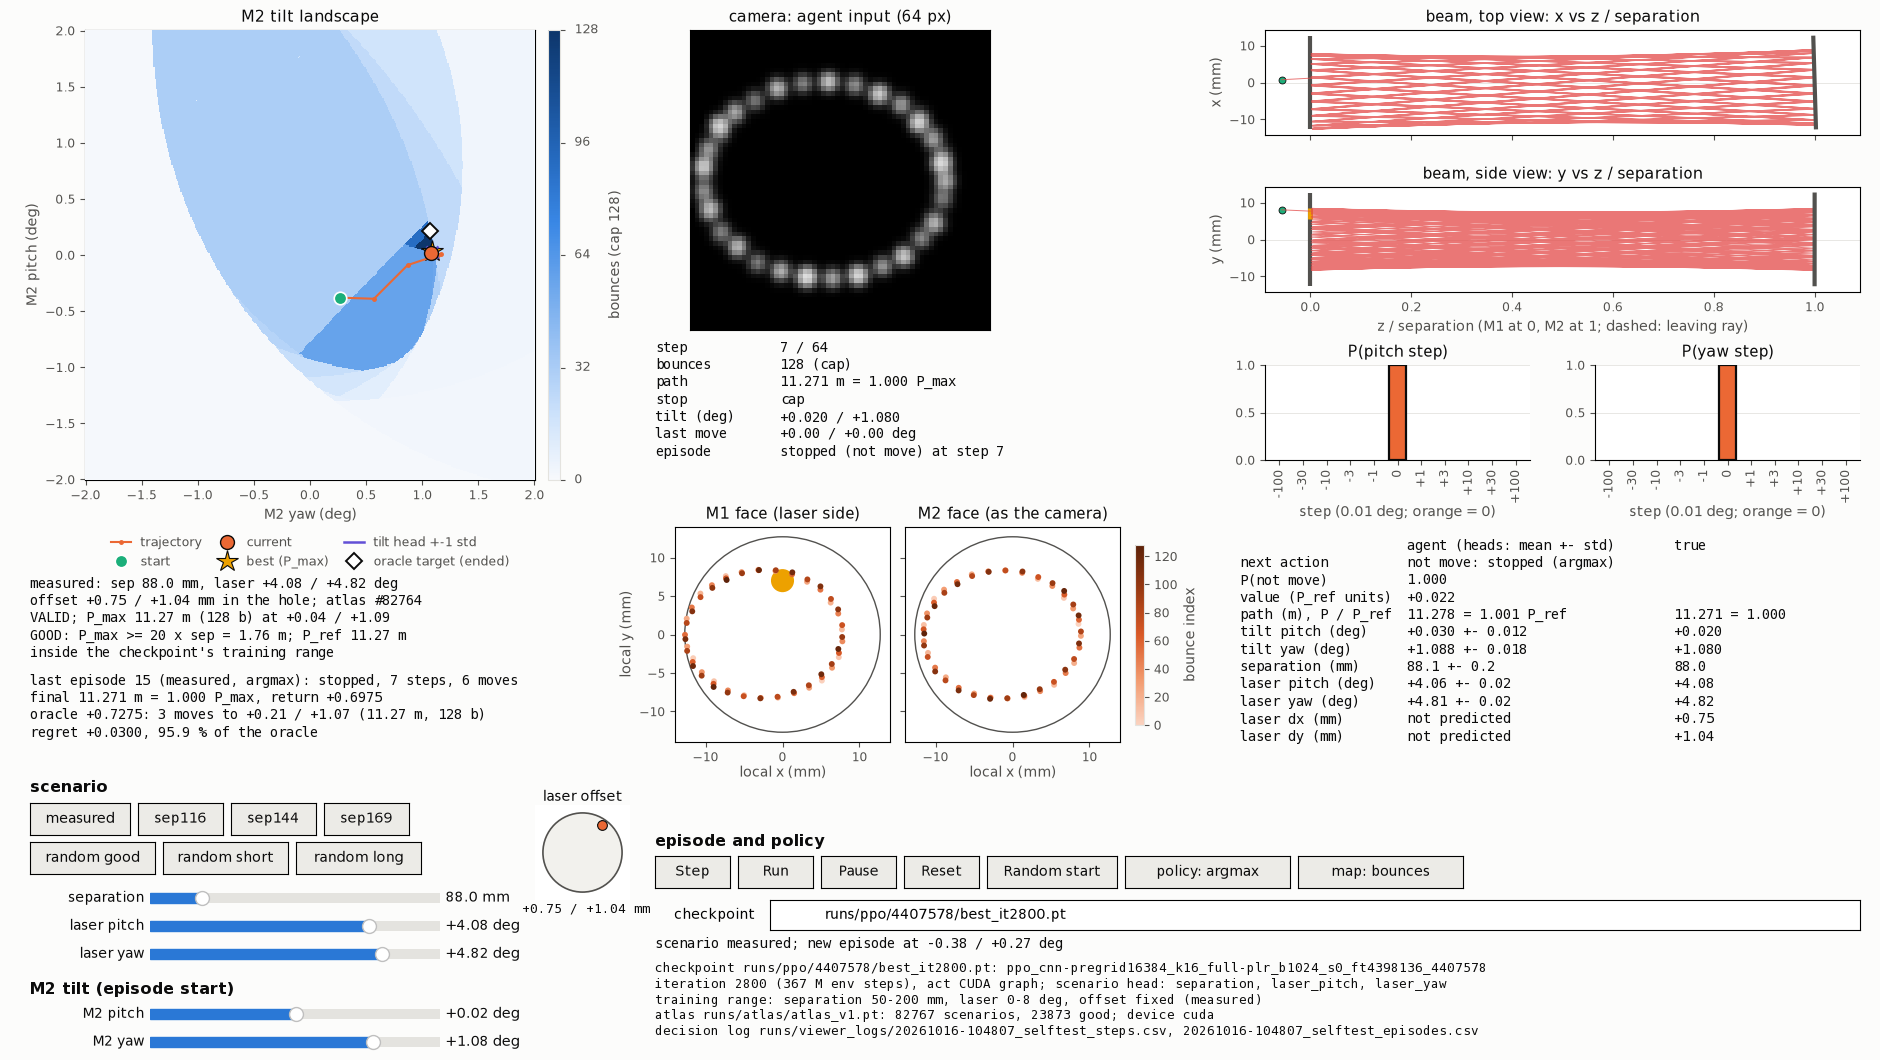
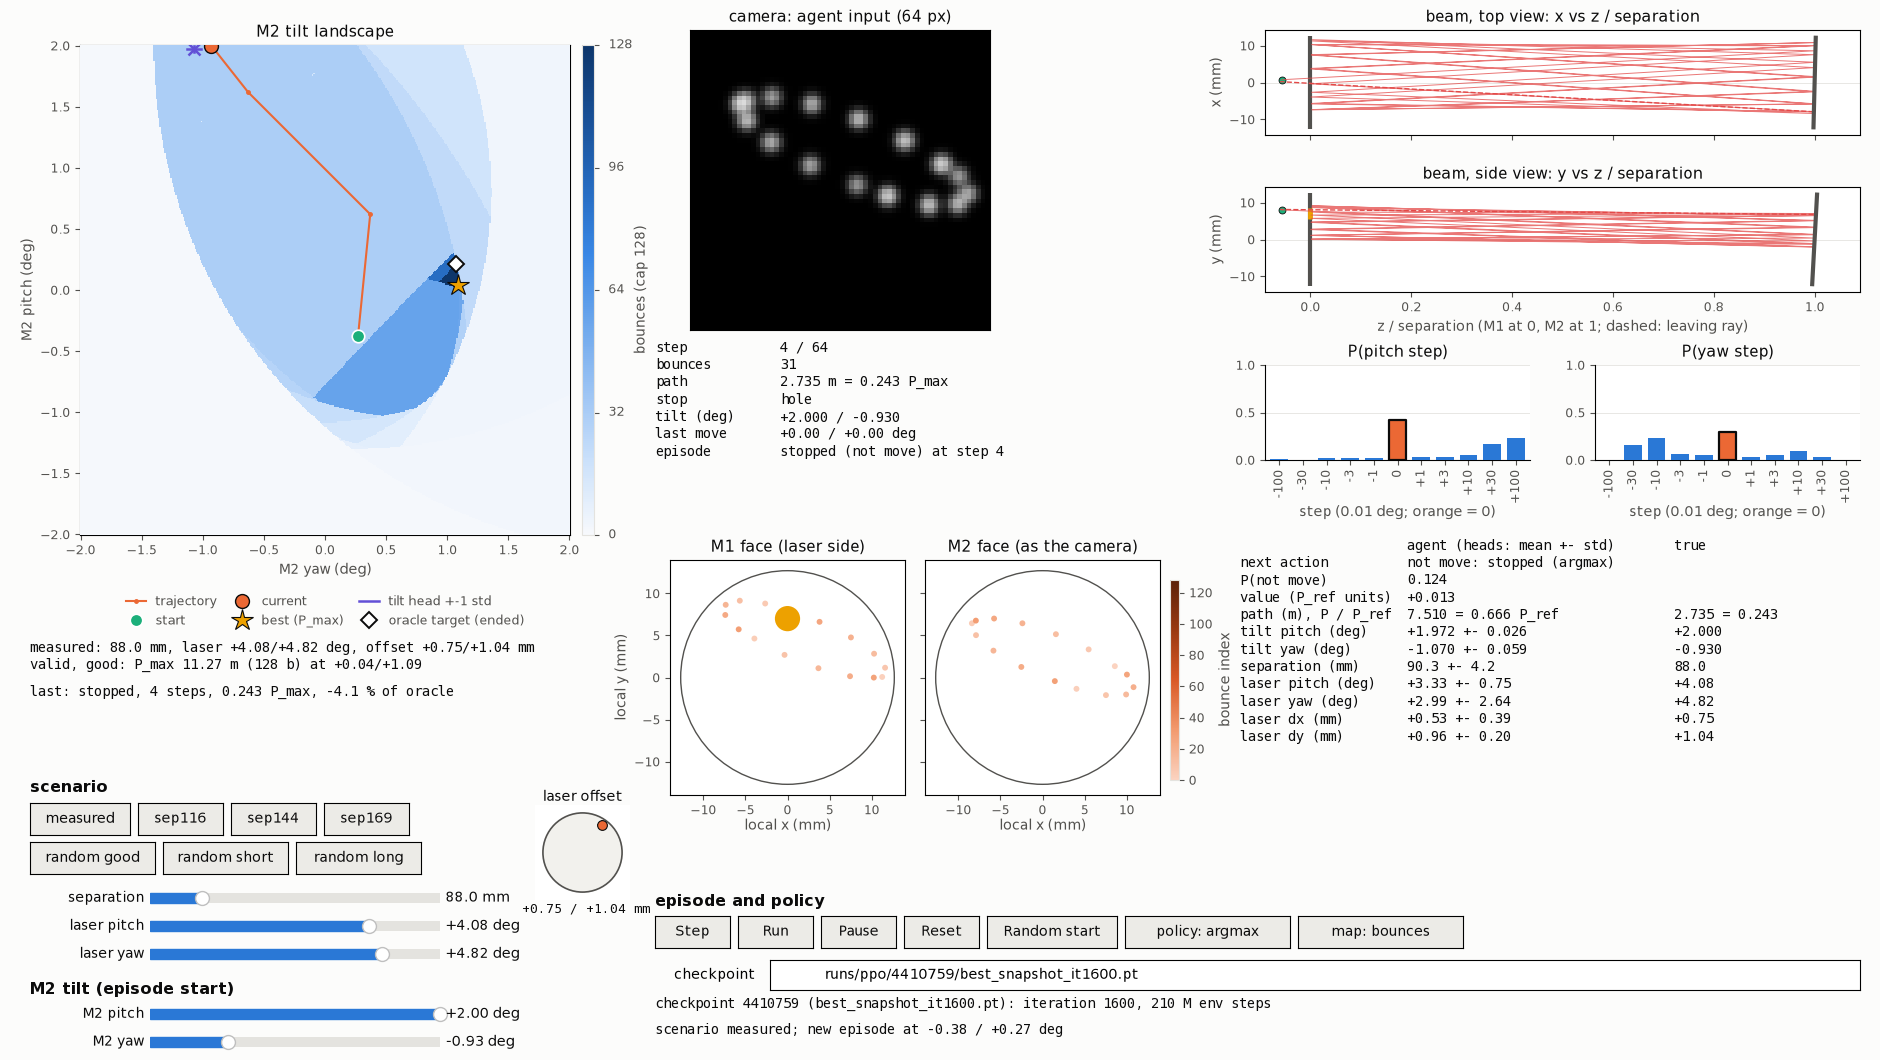
Viewer: three-line scenario text, one-line checkpoint info refreshed on every load, selftest for checkpoint switching

diff --git a/rl/interactive_policy_trial.py b/rl/interactive_policy_trial.py
@@ -162,22 +162,22 @@ def _px(x: float, y: float, w: float, h: float) -> Tuple[float, float, float, fl
     return (x / _W, y / _H, w / _W, h / _H)
 
 
-MAP_RECT = _px(85, 580, 450, 450)
-CBAR_RECT = _px(548, 580, 12, 450)
-SCEN_TXT_RECT = _px(30, 392, 590, 90)
-LAST_TXT_RECT = _px(30, 305, 590, 80)
+MAP_RECT = _px(80, 525, 490, 490)
+CBAR_RECT = _px(582, 525, 12, 490)
+SCEN_TXT_RECT = _px(30, 380, 590, 38)
+LAST_TXT_RECT = _px(30, 352, 590, 22)
 CAM_RECT = _px(690, 730, 300, 300)
 CAM_TXT_RECT = _px(655, 588, 520, 130)
-FACE_RECTS = (_px(675, 318, 215, 215), _px(905, 318, 215, 215))
-HIT_CBAR_RECT = _px(1135, 335, 9, 180)
+FACE_RECTS = (_px(670, 265, 235, 235), _px(925, 265, 235, 235))
+HIT_CBAR_RECT = _px(1170, 280, 9, 200)
 SIDE_RECTS = (_px(1265, 925, 595, 105), _px(1265, 768, 595, 105))
 BAR_RECTS = (_px(1265, 600, 265, 95), _px(1595, 600, 265, 95))
 POL_RECT = _px(1240, 290, 620, 230)
 HOLE_RECT = _px(535, 160, 95, 95)
 HOLE_TXT_RECT = _px(522, 120, 125, 36)
-MSG_RECT = _px(655, 100, 1205, 22)
-INFO_RECT = _px(655, 14, 1205, 82)
-FRAME_BLIT = (_px(0, 290, 1880, 770), _px(0, 0, 640, 62))  # Frame-layer blit areas
+CKPT_RECT = _px(655, 40, 1205, 22)
+MSG_RECT = _px(655, 14, 1205, 22)
+FRAME_BLIT = (_px(0, 225, 1880, 835), _px(0, 0, 640, 62))  # Frame-layer blit areas
 
 # ── Font sizes (pt) ──
 FS_TICK = 9.0
@@ -206,6 +206,16 @@ PARAM_COLS = ("sep_mm", "laser_pitch", "laser_yaw", "laser_dx_mm", "laser_dy_mm"
 def ratio(a: float, b: float) -> float:
     """a / b, nan when b <= 0 (P_max is 0 where the beam misses M2 at every tilt)."""
     return a / b if b > 0 else math.nan
+
+
+def run_tag(path: str, name: Optional[str]) -> str:
+    """Short checkpoint tag: the run directory when it is a job id (runs/ppo/<id>/), else
+    the trailing job id of the run name, else the file name."""
+    d = os.path.basename(os.path.dirname(os.path.abspath(path)))
+    if d.isdigit():
+        return d
+    tail = (name or "").rsplit("_", 1)[-1]
+    return tail if tail.isdigit() else os.path.splitext(os.path.basename(path))[0]
 
 
 def canonical_param(name: str) -> str:
@@ -568,8 +578,7 @@ class Session:
         self.scen_head = False  # Scenario head loaded and matching its parameter list
         self.head_names: Tuple[str, ...] = ()
         self.head_mid = self.head_half = None  # (n,) device tensors
-        self.ckpt_msg = "no checkpoint (simulator only)"
-        self.ckpt_lines: Tuple[str, ...] = ("checkpoint: none (simulator only)",)
+        self.ckpt_msg = self.ckpt_line = "none (simulator only)"
         self.gen = torch.Generator(device=dev)  # Sampled actions
         self.gen.manual_seed(cfg.seed * 1_000_003 + 17)
         self.rng = np.random.default_rng(cfg.seed)  # Random starts and scenarios
@@ -589,6 +598,9 @@ class Session:
 
         # ── Decision log ──
         self.log_writer = DecisionLog(cfg.log_dir, cfg.log_tag) if cfg.log_dir else None
+        if self.log_writer is not None:
+            self.log(f"decision log {self.log_writer.paths['steps']}, "
+                     f"{os.path.basename(self.log_writer.paths['episodes'])}")
         self.episode = 0  # Episode counter of the session
         self.last_result: Optional[Dict[str, object]] = None  # Last logged episode
         self._ep_open = False  # Current episode not logged yet
@@ -610,9 +622,9 @@ class Session:
         ck = torch.load(path, map_location="cpu", weights_only=False, mmap=True)
         with torch.inference_mode():
             self._finish_open()  # Logged with the agent that played it
-        names = {f.name for f in fields(PPOConfig)}
+        known = {f.name for f in fields(PPOConfig)}
         pcfg = PPOConfig(**{k: tuple(v) if isinstance(v, list) else v
-                            for k, v in (ck.get("cfg") or {}).items() if k in names})
+                            for k, v in (ck.get("cfg") or {}).items() if k in known})
         n_bins = self.ladder_units.size
         acfg = (AgentConfig.from_dict(ck["agent_cfg"]) if ck.get("agent_cfg")
                 else agent_config(pcfg, n_bins))
@@ -653,12 +665,16 @@ class Session:
                     mode = "CUDA graph"
                 except RuntimeError as e:  # Capture failed: stay eager
                     self.log(f"CUDA graph capture failed ({e}); agent.act runs eager")
-        steps = info.get("env_steps") or 0
-        self.ckpt_lines = (f"checkpoint {short_path(path)}: {info.get('name')}",
-                           f"iteration {info.get('iteration')} ({steps / 1e6:.0f} M env steps), "
-                           f"act {mode}; {head}")
-        self.ckpt_msg = ", ".join(self.ckpt_lines)
-        self.log(self.ckpt_msg)
+        steps, it = info.get("env_steps") or 0, info.get("iteration")
+        self.ckpt_line = (f"{run_tag(path, info.get('name'))} ({os.path.basename(path)}): "
+                          f"iteration {it}, {steps / 1e6:.0f} M env steps")
+        self.ckpt_msg = self.ckpt_line
+        details = [f"checkpoint {path}",
+                   f"  run {info.get('name')}, iteration {it}, {steps / 1e6:.1f} M env steps; "
+                   f"act {mode}", f"  {head}", f"  training range: {self.range_text()}"]
+        if info["skipped"]:
+            details.append(f"  skipped tensors: {sorted(info['skipped'])}")
+        self.log("\n".join(details))
         if self.scenario is not None:  # Env settings of the new run
             sc = self.scenario
             self.scenario.in_training_range, self.scenario.range_note = (
@@ -715,6 +731,15 @@ class Session:
     def invalid_reason(self, clipped: bool, misses: bool) -> str:
         return "clipped by hole" if clipped else ("misses M2" if misses else "")
 
+    def range_text(self) -> str:
+        """The loaded checkpoint's training range in words."""
+        tr = self.train_ranges
+        (a, b), (c, d), (e, f) = tr["separation"], tr["laser_pitch"], tr["laser_yaw"]
+        laser = (f"{c:g} to {d:g} deg" if (c, d) == (e, f) else
+                 f"pitch {c:g} to {d:g}, yaw {e:g} to {f:g} deg")
+        offset = "in the hole" if tr["offset"] == "disk" else "fixed (measured)"
+        return f"separation {a:g} to {b:g} mm, laser {laser}, offset {offset}"
+
     def training_range(self, params) -> Tuple[bool, str]:
         """Inside the loaded checkpoint's training range (self.train_ranges), and the
         violated ranges."""
@@ -723,11 +748,11 @@ class Session:
         viol = []
         lo, hi = tr["separation"]
         if not lo - e <= sep <= hi + e:
-            viol.append(f"sep {lo:g}-{hi:g} mm")
+            viol.append(f"sep {lo:g} to {hi:g} mm")
         (plo, phi), (ylo, yhi) = tr["laser_pitch"], tr["laser_yaw"]
         if not (plo - e <= lp <= phi + e and ylo - e <= ly <= yhi + e):
-            viol.append(f"laser {plo:g}-{phi:g} deg" if (plo, phi) == (ylo, yhi) else
-                        f"laser {plo:g}-{phi:g} / {ylo:g}-{yhi:g} deg")
+            viol.append(f"laser {plo:g} to {phi:g} deg" if (plo, phi) == (ylo, yhi) else
+                        f"laser pitch {plo:g} to {phi:g}, yaw {ylo:g} to {yhi:g} deg")
         if tr["offset"] == "fixed":
             if abs(dx - self.geom.laser_dx) > e or abs(dy - self.geom.laser_dy) > e:
                 viol.append("fixed offset")
@@ -1314,7 +1339,7 @@ class Viewer:
         self.cb_ticks = [A(cb.ax.text(2.2, q, "", transform=cb.ax.transAxes, va="center",
                                       fontsize=FS_TICK, color=INK2), "scene")
                          for q in (0, 0.25, 0.5, 0.75, 1.0)]
-        self.cb_label = A(cb.ax.text(5.6, 0.5, "", transform=cb.ax.transAxes, va="center",
+        self.cb_label = A(cb.ax.text(4.9, 0.5, "", transform=cb.ax.transAxes, va="center",
                                      ha="center", rotation=90, **lab), "scene")
         self.tx_scen, _ = self._text(SCEN_TXT_RECT, layer="scene")
         self.tx_last, _ = self._text(LAST_TXT_RECT)
@@ -1424,7 +1449,7 @@ class Viewer:
 
         # ── Controls ──
         for x, y, t in ((30, 268, "scenario"), (30, 66, "M2 tilt (episode start)"),
-                        (655, 214, "episode and policy")):
+                        (655, 154, "episode and policy")):
             fig.text(x / _W, y / _H, t, fontsize=FS_HEAD, color=INK, weight="bold")
 
         def button(x, y, w, label, cb):
@@ -1494,12 +1519,12 @@ class Viewer:
                             ("Pause", 75, self._on_pause), ("Reset", 75, self._on_reset),
                             ("Random start", 130, self._on_random_start),
                             ("policy", 165, self._on_mode), ("map", 165, self._on_map_mode)):
-            self.buttons[name] = button(x, 172, w, name, cb)
+            self.buttons[name] = button(x, 112, w, name, cb)
             x += w + 8
         for name in ("policy", "map"):
             A(self.buttons[name].label, "scene")
         self._set_toggle_labels()
-        ax = fig.add_axes(_px(770, 130, 1090, 30))
+        ax = fig.add_axes(_px(770, 70, 1090, 30))
         self.textbox = _fast_textbox_class()(
             ax, "checkpoint ", initial=short_path(self.s.cfg.ckpt), color="white",
             hovercolor="white", textalignment="left", redraw=lambda: self._blit(scene=True),
@@ -1508,7 +1533,7 @@ class Viewer:
         self.textbox.text_disp.set_fontsize(FS_LABEL)
         self.textbox.on_submit(self._on_load)
         self.tx_msg, _ = self._text(MSG_RECT, layer="scene")
-        self.tx_info, _ = self._text(INFO_RECT, layer=None, size=FS_SMALL)
+        self.tx_ckpt, _ = self._text(CKPT_RECT, layer="scene")
         self._show_info()
 
     @staticmethod
@@ -1597,19 +1622,14 @@ class Viewer:
         self.offset = (dx, dy)
         self.ln_hole.set_data([dx], [dy])
         self.tx_hole.set_text(f"{dx:+.2f} / {dy:+.2f} mm")
-        src = f"atlas #{sc.atlas_index}" if sc.atlas_index >= 0 else "off the atlas"
-        valid = "VALID" if sc.valid else sc.invalid_reason.upper()
-        state = (f"GOOD: P_max >= 20 x sep = {sc.p_floor / 1000:.2f} m" if sc.good else
-                 f"IMPOSSIBLE: P_max < 20 x sep = {sc.p_floor / 1000:.2f} m" if sc.valid else
-                 f"not alignable (20 x sep = {sc.p_floor / 1000:.2f} m)")
-        trained = ("inside the checkpoint's training range" if sc.in_training_range else
-                   f"EXTRAPOLATION, trained: {sc.range_note}")
+        state = (("valid, good" if sc.good else "valid, impossible") if sc.valid else
+                 sc.invalid_reason.upper())
+        best = (f": P_max {sc.pmax / 1000:.2f} m ({sc.best_bounces} b) at "
+                f"{sc.best_tilt[0]:+.2f}/{sc.best_tilt[1]:+.2f}" if sc.valid else "")
         self.tx_scen.set_text(
-            f"{sc.name}: sep {sep:.1f} mm, laser {lp:+.2f} / {ly:+.2f} deg\n"
-            f"offset {dx:+.2f} / {dy:+.2f} mm in the hole; {src}\n"
-            f"{valid}; P_max {sc.pmax / 1000:.2f} m ({sc.best_bounces} b) at "
-            f"{sc.best_tilt[0]:+.2f} / {sc.best_tilt[1]:+.2f}\n"
-            f"{state}; P_ref {sc.path_ref / 1000:.2f} m\n{trained}")
+            f"{sc.name}: {sep:.1f} mm, laser {lp:+.2f}/{ly:+.2f} deg, offset "
+            f"{dx:+.2f}/{dy:+.2f} mm\n"
+            f"{state}{best}{'' if sc.in_training_range else '  EXTRAPOLATION'}")
         self.ln_best.set_data([sc.best_tilt[1]], [sc.best_tilt[0]])
         g, R = self.s.geom, self.s.geom.diameter / 2
         for k, art in enumerate(self.side):  # M1, laser origin, hole: fixed per scenario
@@ -1644,17 +1664,8 @@ class Viewer:
         self.cb_label.set_text(title)
 
     def _show_info(self):
-        s = self.s
-        log = (f"decision log {short_path(s.log_writer.paths['steps'])}, "
-               f"{os.path.basename(s.log_writer.paths['episodes'])}" if s.log_writer
-               else "no decision log")
-        tr = s.train_ranges
-        (a, b), (c, d), (e, f) = tr["separation"], tr["laser_pitch"], tr["laser_yaw"]
-        laser = f"{c:g}-{d:g} deg" if (c, d) == (e, f) else f"{c:g}-{d:g} / {e:g}-{f:g} deg"
-        offset = "in the hole" if tr["offset"] == "disk" else "fixed (measured)"
-        self.tx_info.set_text("\n".join(s.ckpt_lines) + f"\ntraining range: separation "
-                              f"{a:g}-{b:g} mm, laser {laser}, offset {offset}\n"
-                              f"{s.atlas_msg}; device {s.device}\n{log}")
+        """Checkpoint line (scene layer: drawn with the next scene blit)."""
+        self.tx_ckpt.set_text(f"checkpoint {self.s.ckpt_line}")
 
     def _set_slider(self, sl, v: float):
         """Move a slider without its callback (and without a redraw)."""
@@ -1701,17 +1712,11 @@ class Viewer:
         """Oracle comparison of the last logged episode."""
         r = self.s.last_result
         if r is None:
-            return "last episode vs oracle: none yet"
-        tags = ("" if r["in_training_range"] else " (extrapolation)") + (
-            " (invalid)" if r["invalid_reason"] else "")
-        return (f"last episode {r['episode']} ({r['scenario']}, {r['mode']}): {r['end']}, "
-                f"{r['steps']} steps, {r['moves']} moves\n"
-                f"final {r['final_path_m']:.3f} m = {r['final_pmax']:.3f} P_max, "
-                f"return {r['return']:+.4f}{tags}\n"
-                f"oracle {r['oracle_return']:+.4f}: {r['oracle_moves']} moves to "
-                f"{r['oracle_target_pitch']:+.2f} / {r['oracle_target_yaw']:+.2f} "
-                f"({r['oracle_target_path_m']:.2f} m, {r['oracle_target_bounces']} b)\n"
-                f"regret {r['regret']:+.4f}, {r['pct_oracle']:.1f} % of the oracle")
+            return "last episode: none yet"
+        pct = r["pct_oracle"]
+        vs = (f"{pct:.1f} % of oracle" if not math.isnan(pct) else
+              f"regret {r['regret']:+.3f} vs oracle")
+        return (f"last: {r['end']}, {r['steps']} steps, {r['final_pmax']:.3f} P_max, {vs}")
 
     def _episode_state(self, f: Frame) -> str:
         if f.terminated:
@@ -1934,9 +1939,11 @@ class Viewer:
             self._say(f"loaded {short_path(path)} in {time.perf_counter() - t0:.1f} s")
         except Exception as e:  # Bad path or format: keep the current agent
             self._say(f"load failed: {type(e).__name__}: {e}")
+        # Everything derived from the checkpoint: its line, the training-range marking
+        # (scenario text), the heads (policy panel, redrawn with the frame)
         self._show_info()
+        self._show_scenario()
         self._show(self.s.frame, scene=True)
-        self.canvas.draw_idle()  # The checkpoint line is static (background)
 
     # ── Events ──
 
@@ -2156,8 +2163,9 @@ def selftest(cfg: ViewerConfig, screenshot: str) -> int:
     g = SETUPS[0]
     v._on_named("measured")
     f = run_episode("measured, nominal start, argmax")
-    checks["nominal reaches >= 0.9 P_max and stops"] = (f.terminated and
-                                                       f.path_mm >= 0.9 * s.scenario.pmax)
+    # Policy quality, not a viewer check (4407578 reaches the trapped 11.27 m and stops)
+    print(f"    policy on the nominal start: {f.path_mm / s.scenario.pmax:.3f} P_max, "
+          f"{'stopped' if f.terminated else 'truncated'} ({s.ckpt_line})")
     checks["nominal: evaluate and log"] = check_logged(f, (g.m2_pitch, g.m2_yaw))
     v.screenshot(screenshot)
     print(f"    screenshot {screenshot}")
@@ -2256,8 +2264,8 @@ def selftest(cfg: ViewerConfig, screenshot: str) -> int:
         torch.save({"agent": sd, "agent_cfg": acfg, "cfg": ck["cfg"], "vnorm": ck["vnorm"],
                     "name": "synthesized_5param", "iteration": 0, "env_steps": 0}, path5)
         del ck
-        s.load_checkpoint(path5)
-        v._show_info()
+        a_path = s.ckpt_path
+        v._on_load(path5)
         v._on_random("good")
         sc = s.scenario
         f = run_episode(f"five-value head checkpoint ({label(sc)}), argmax")
@@ -2268,6 +2276,42 @@ def selftest(cfg: ViewerConfig, screenshot: str) -> int:
             and sc.in_training_range and logged(sc, f) and head_ok)
         print(f"    head names {s.head_names}; scenario head "
               f"{'loaded' if s.scen_head else 'not loaded with this agent.py (3-value head)'}")
+
+        # Checkpoint switching: A, then B (another checkpoint, preferably with another
+        # scenario head): the checkpoint line, the head rows and the training-range marking
+        # must follow B (checked against B's own file), then back to A
+        def n_head(path: str) -> int:
+            c = torch.load(path, map_location="cpu", weights_only=False, mmap=True)
+            return len(head_spec(c.get("agent_cfg") or {})[0])
+
+        others = sorted(os.path.abspath(q) for q in glob.glob(
+            os.path.join(RL_DIR, "runs", "ppo", "*", "best*.pt")) if os.path.abspath(q) != a_path)
+        n_a = n_head(a_path)
+        b_path = next((q for q in others if n_head(q) != n_a), others[0] if others else path5)
+
+        def shows(path: str) -> bool:
+            c = torch.load(path, map_location="cpu", weights_only=False, mmap=True)
+            it, steps = c.get("iteration"), c.get("env_steps") or 0
+            names, lo, hi = head_spec(c.get("agent_cfg") or {})
+            del c
+            txt = v.tx_ckpt.get_text()
+            rows = v.tx_pol.get_text().split("\n")
+            dx_shown = len(rows) > 10 and rows[10] not in ("", "not predicted")
+            sep_rng = dict(zip(names, zip(lo, hi))).get("separation", SEP_RANGE)
+            return (os.path.basename(path) in txt and f"iteration {it}," in txt
+                    and f"{steps / 1e6:.0f} M env steps" in txt and s.head_names == names
+                    and dx_shown == ("laser_dx" in names and s.scen_head)
+                    and s.train_ranges["separation"] == sep_rng
+                    and (("EXTRAPOLATION" in v.tx_scen.get_text())
+                         != s.training_range(s.scenario.params)[0]))
+
+        v._on_load(a_path)
+        a_ok, text_a = shows(a_path), v.tx_ckpt.get_text()
+        v._on_load(b_path)
+        b_ok, text_b = shows(b_path), v.tx_ckpt.get_text()
+        checks["checkpoint A -> B: displayed info follows B"] = a_ok and b_ok and text_a != text_b
+        print(f"    A: {text_a}\n    B: {text_b}")
+        v._on_load(a_path)
 
     # Checkpoint box: click in, type (x, backspace), click outside (submit: load); bad path
     step0 = s.frame.step
@@ -2320,7 +2364,9 @@ def main(argv: Optional[List[str]] = None) -> int:
             "keys: right or s step, space run / pause, r reset (start tilt), n random start,\n"
             "  d argmax / sampled, m map color, g random good scenario, [ / ] separation\n"
             "  -/+0.5 mm, { / } -/+5 mm\n"
-            "every played episode is logged (steps and oracle comparison) under --log-dir"))
+            "every played episode is logged (steps and oracle comparison) under --log-dir;\n"
+            "the console shows the atlas and log paths at start and the checkpoint details\n"
+            "(path, run name, act mode, scenario head, training range) on every load"))
     ap.add_argument("--ckpt", default=d.ckpt,
                     help="ppo.py checkpoint (default: the newest runs/ppo/*/best*.pt)")
     ap.add_argument("--no-ckpt", action="store_true", help="Simulator only")
